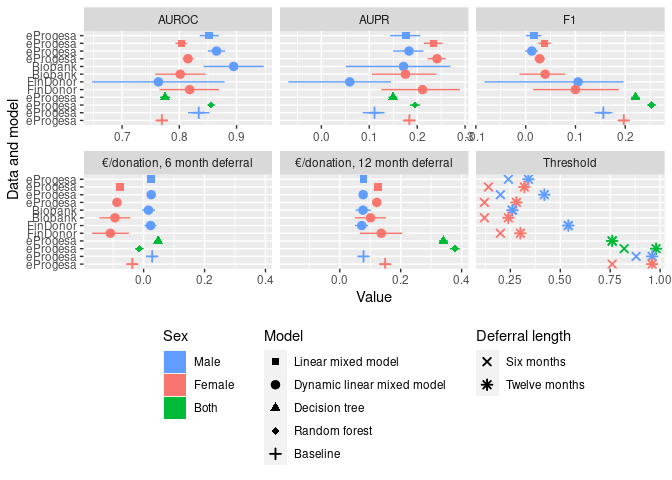
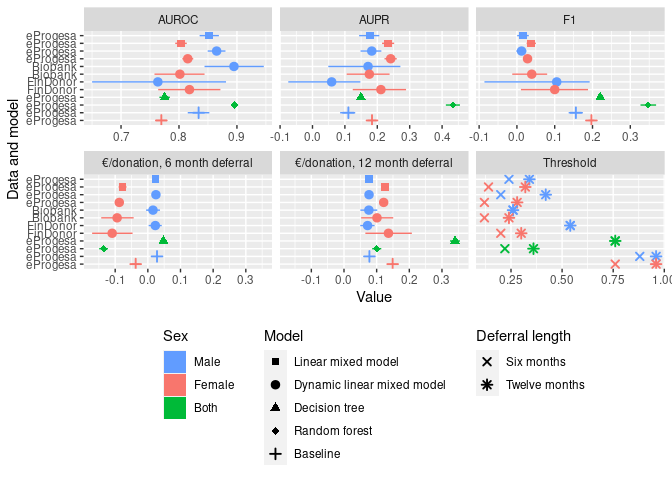
RF done by oversampling.

diff --git a/src/new_economic_parameters.md b/src/new_economic_parameters.md
@@ -29,10 +29,10 @@ The cost surface below is for the random forest on eProgesa data.
     g <- draw_surface(results=all_results %>% filter(Id == "progesa-both-rf"), cost_function=do.call(cost_func_factory, new_parameters[c("Pm", "Pd", "F", "Fn", "rloss", "d")]))
 
     ## # A tibble: 2 × 11
-    ##   Id     month E_value   E_low  E_high a_value a_low a_high q_value q_low q_high
-    ##   <chr>  <int>   <dbl>   <dbl>   <dbl>   <dbl> <dbl>  <dbl>   <dbl> <dbl>  <dbl>
-    ## 1 proge…     6 -0.0139 -0.0281 1.02e-4    1.15  1.14   1.15   0.472 0.453  0.491
-    ## 2 proge…    12  0.378   0.361  3.95e-1    1.27  1.26   1.27   0.236 0.220  0.253
+    ##   Id      month E_value   E_low E_high a_value a_low a_high q_value q_low q_high
+    ##   <chr>   <int>   <dbl>   <dbl>  <dbl>   <dbl> <dbl>  <dbl>   <dbl> <dbl>  <dbl>
+    ## 1 proges…     6  -0.136 -0.149  -0.122    1.09  1.09   1.09   0.482 0.463  0.502
+    ## 2 proges…    12   0.100  0.0863  0.114    1.16  1.15   1.16   0.330 0.311  0.349
 
     if (save_figs) {
       filename <- sprintf("%s/cme_cost_surface_werr.pdf", fig_path)
@@ -54,11 +54,6 @@ The cost surface below is for the random forest on eProgesa data.
       ggsave(filename=filename, #  title="Performance forest plot", 
              plot=g, dpi=600, units="mm", width=180, device=cairo_pdf)
     }
-
-    ## Saving 180 x 127 mm image
-
-    ## Warning: Removed 1 rows containing missing values (geom_pointrangeh).
-
     g
 
     ## Warning: Removed 1 rows containing missing values (geom_pointrangeh).
